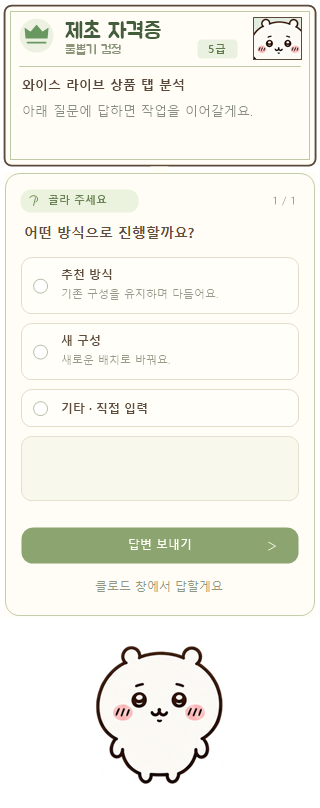
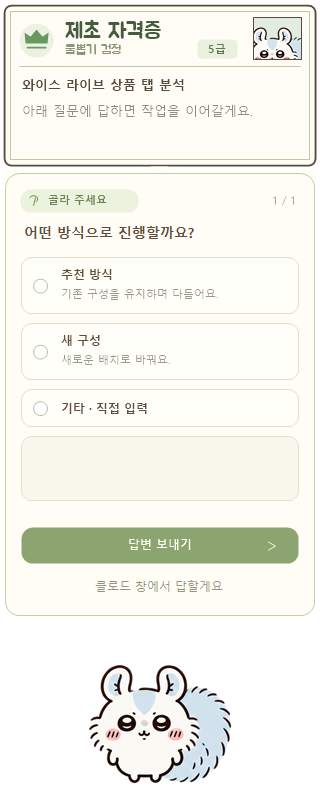
Lower crown seal to align certificate header

Changed region(s): [[0.2812, 0.7735, 0.7188, 0.9901], [0.7812, 0.0, 0.9375, 0.0928], [0.0625, 0.0309, 0.1562, 0.0619]]

diff --git a/ChiikawaDesktopPet.cs b/ChiikawaDesktopPet.cs
@@ -127,10 +127,10 @@ class Pet:Form {
    using(var pen=new Pen(ink,1.8f))g.DrawPath(pen,card);
   }
   using(var pen=new Pen(Color.FromArgb(188,203,166),1))g.DrawRectangle(pen,10,11,Width-21,148);
-  using(var brush=new SolidBrush(Color.FromArgb(236,241,226)))g.FillEllipse(brush,19,18,34,34);
-  PointF[] crown={new PointF(25,38),new PointF(24,27),new PointF(30,31),new PointF(36,24),new PointF(42,31),new PointF(48,27),new PointF(47,38)};
+  using(var brush=new SolidBrush(Color.FromArgb(236,241,226)))g.FillEllipse(brush,19,23,34,34);
+  PointF[] crown={new PointF(25,43),new PointF(24,32),new PointF(30,36),new PointF(36,29),new PointF(42,36),new PointF(48,32),new PointF(47,43)};
   using(var brush=new SolidBrush(green))g.FillPolygon(brush,crown);
-  using(var pen=new Pen(green,1.8f)){pen.StartCap=LineCap.Round;pen.EndCap=LineCap.Round;g.DrawLine(pen,27,42,45,42);}
+  using(var pen=new Pen(green,1.8f)){pen.StartCap=LineCap.Round;pen.EndCap=LineCap.Round;g.DrawLine(pen,27,47,45,47);}
   using(var brush=new SolidBrush(Color.FromArgb(68,94,61)))using(var font=CertificateTypeface.Create(16.5f))g.DrawString("제초 자격증",font,brush,61,20);
   using(var brush=new SolidBrush(Color.FromArgb(139,150,123)))using(var font=CertificateTypeface.Create(9.5f))g.DrawString("풀뽑기 검정",font,brush,63,44);
   float badgeX=Width-123;
